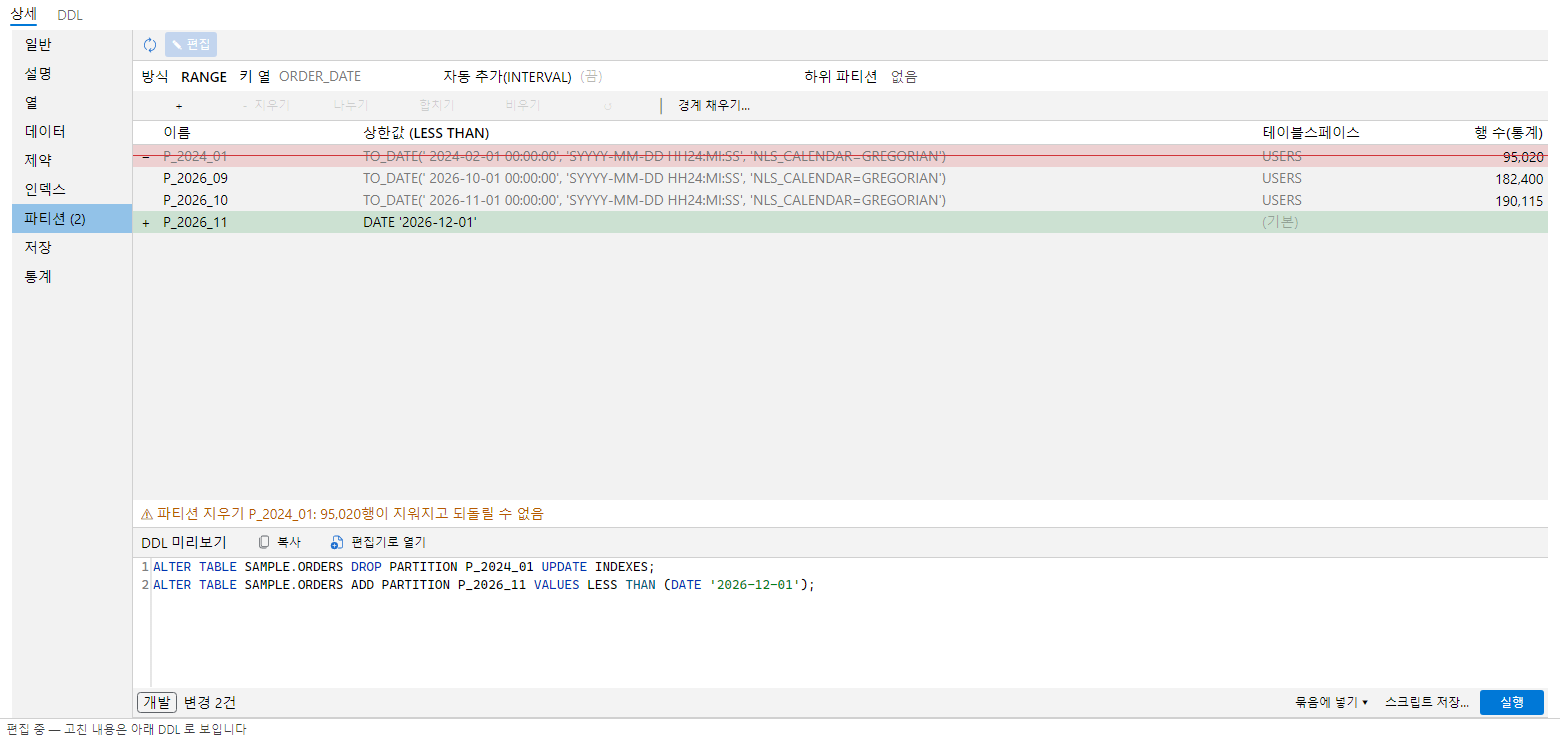
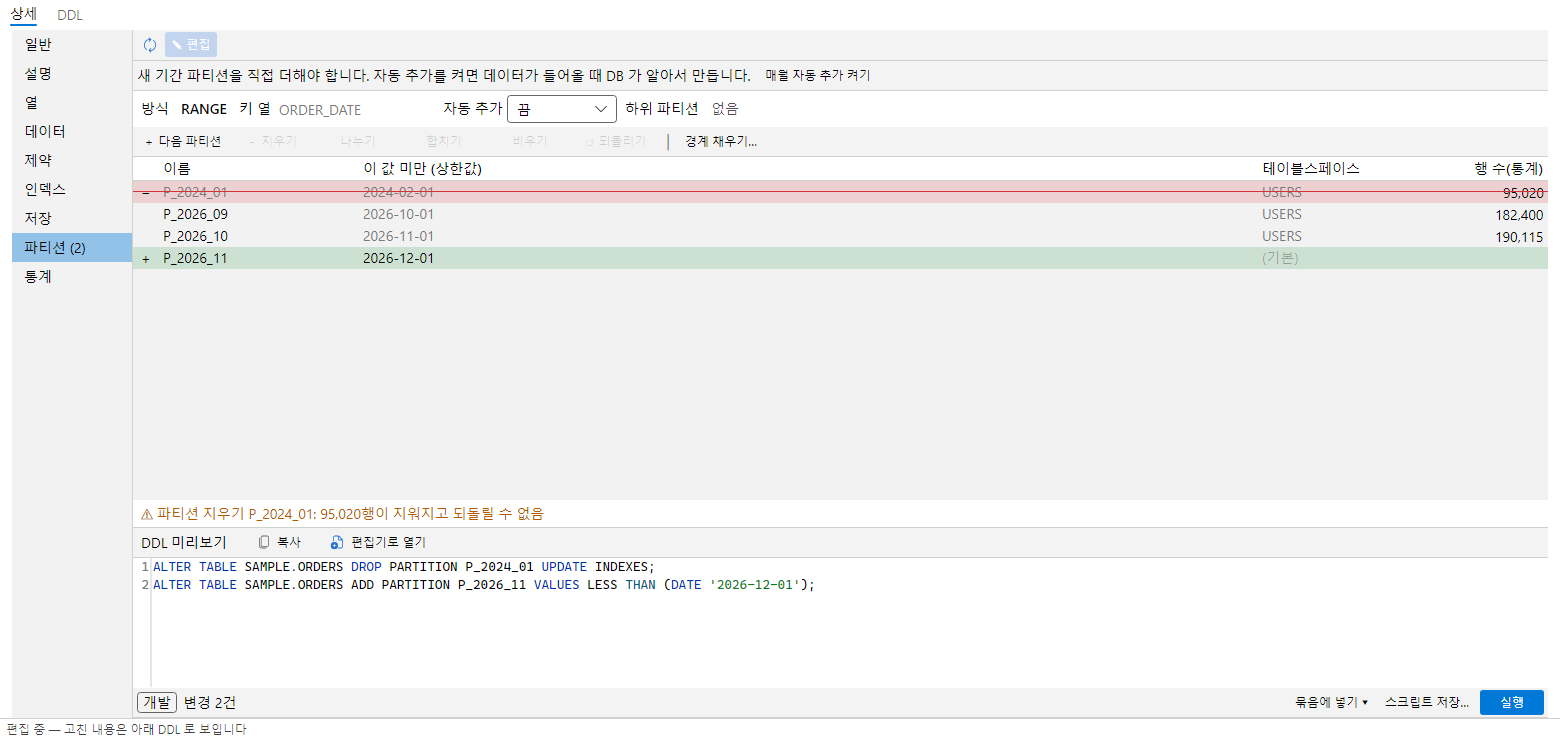
feat(table-edit): warn about Tibero dropped column data; manual and spec for easy partitions
- Check planner: on Tibero, when the table has a virtual column and the edit drops a column
  (or recreates a virtual column by DROP + ADD), warn that the dropped values can reappear
  in a column added later (server defect measured on win30; same name with another type
  breaks reads with corrupted DATE).
- Spec 12 records the Tibero findings; 18.4 records the easy partition editing.
- User manual: easy setup, automatic add choices, next partition, plain bounds, storage
  page in view mode; screenshots redrawn (partition, storage, new partition-easy).

Changed region(s): [[0.0, 0.0932, 1.0, 0.373]]

diff --git a/tests/Oranda.Core.Tests/Schema/TableEdit/TableEditCheckPlannerTests.cs b/tests/Oranda.Core.Tests/Schema/TableEdit/TableEditCheckPlannerTests.cs
@@ -243,6 +243,33 @@ public sealed class TableEditCheckPlannerTests
     }
 
     [Fact]
+    public void Tibero_warns_that_dropped_column_values_resurface_when_the_table_has_a_virtual_column()
+    {
+        var tibero = new FakeTableEditDialect { Dbms = Dbms.Tibero };
+        var (original, edited) = Start(dialect: tibero);
+        Assert.Contains(original.Columns, c => c.IsVirtual); // 예시 테이블에 가상 열 TOTAL
+        edited = edited.WithColumn("NOTE", c => c with { IsDropped = true });
+
+        var finding = Assert.Single(Plan(original, edited, tibero).Findings, f => f.Code == CheckCode.TiberoDroppedColumnData);
+        Assert.Equal((CheckSeverity.Warning, TableDraft.TableRowKey), (finding.Severity, finding.RowKey));
+
+        // Oracle 은 이 결함이 없다.
+        var (o2, e2) = Start();
+        Assert.DoesNotContain(Plan(o2, e2.WithColumn("NOTE", c => c with { IsDropped = true })).Findings, f => f.Code == CheckCode.TiberoDroppedColumnData);
+    }
+
+    [Fact]
+    public void Tibero_does_not_warn_without_a_virtual_column_or_without_a_drop()
+    {
+        var tibero = new FakeTableEditDialect { Dbms = Dbms.Tibero };
+        var (original, edited) = Start(dialect: tibero);
+        Assert.DoesNotContain(Plan(original, edited.WithColumn("NOTE", c => c with { Length = 500 }), tibero).Findings, f => f.Code == CheckCode.TiberoDroppedColumnData);
+
+        var plain = original with { Columns = [.. original.Columns.Where(c => !c.IsVirtual)] };
+        Assert.DoesNotContain(Plan(plain, plain.WithColumn("NOTE", c => c with { IsDropped = true }), tibero).Findings, f => f.Code == CheckCode.TiberoDroppedColumnData);
+    }
+
+    [Fact]
     public void Unsupported_features_are_blocked_with_the_reason_key()
     {
         var dialect = new FakeTableEditDialect();

diff --git a/src/Oranda.App/Features/TableEdit/CheckFindingText.cs b/src/Oranda.App/Features/TableEdit/CheckFindingText.cs
@@ -71,6 +71,9 @@ public static class CheckFindingText
                   + (detail is null || atLeast ? string.Empty : " — " + detail),
             CheckCode.ConversionNeedsQuiet => TableEditText.T($"{s}: 변환하는 동안 이 테이블에 쓰지 않게 하세요", $"{s}: keep writes off this table while converting")
                                               + (detail is null ? string.Empty : " (" + detail + ")"),
+            CheckCode.TiberoDroppedColumnData => TableEditText.T(
+                $"{s}: Tibero 는 가상 열이 있는 테이블에서 지운 열의 값을 지우지 않아, 나중에 더하는 열에 그 값이 보일 수 있습니다(같은 이름을 다른 형식으로 다시 더하면 읽기가 깨짐). 열을 다시 더할 일이 있으면 테이블을 새로 만드세요",
+                $"{s}: on Tibero, with a virtual column in the table, a dropped column's values stay and can show up in a column added later (re-adding the same name with another type breaks reads). Rebuild the table if you will add columns again"),
             CheckCode.Unsupported => TableEditText.T($"{s}: 이 서버에서는 할 수 없습니다", $"{s}: not supported on this server") + (detail is null ? string.Empty : " (" + detail + ")"),
             _ => s,
         };

diff --git a/src/Oranda.Core/Schema/TableEdit/TableEditCheckPlanner.cs b/src/Oranda.Core/Schema/TableEdit/TableEditCheckPlanner.cs
@@ -549,6 +549,14 @@ public static partial class TableEditCheckPlanner
                 }
             }
 
+            // Tibero 서버 결함: 가상 열이 있는 테이블에서 열을 지우면(가상 식 바꾸기의 DROP + ADD 포함) 지운 값이 나중에 더한 열에 보인다.
+            if (dialect.Dbms == Dbms.Tibero
+                && (original.Columns.Any(c => c.IsVirtual) || liveColumns.Any(c => c.IsVirtual))
+                && (changes.Columns.Any(d => d.State == DraftRowState.Dropped) || Findings.Any(f => f.Code == CheckCode.VirtualRecreated)))
+            {
+                Findings.Add(new CheckFinding(CheckSeverity.Warning, CheckCode.TiberoDroppedColumnData, TableDraft.TableRowKey) { Subject = original.Name });
+            }
+
             // 제약
             var liveConstraints = edited.Constraints.Where(c => !c.IsDropped && changes.StateOf(c.RowKey) != DraftRowState.Dropped).ToList();
             var freedConstraints = changes.Constraints.Where(d => d.State == DraftRowState.Dropped || d.Changes.HasFlag(ConstraintChange.Name))

diff --git a/src/Oranda.Core/Schema/TableEdit/CheckFinding.cs b/src/Oranda.Core/Schema/TableEdit/CheckFinding.cs
@@ -84,6 +84,12 @@ public enum CheckCode
     /// (<see cref="CheckFinding.Dependents"/> = 트리거).
     /// </summary>
     ConversionNeedsQuiet,
+
+    /// <summary>
+    /// ⚠ Tibero 서버 결함(2026-11-18 실측, win30): 가상 열이 있는 테이블에서 지운 열의 값이 저장소에 남아, 나중에 더한 열(이름·형식이 달라도)에 보인다.
+    /// 같은 이름을 다른 형식으로 다시 더하면 읽기가 깨진다(ODP-590750 corrupted DATE). 가상 열이 없으면 생기지 않는다.
+    /// </summary>
+    TiberoDroppedColumnData,
 }
 
 /// <summary>

diff --git a/site/src/content/docs/schema/table-editor.md b/site/src/content/docs/schema/table-editor.md
@@ -12,7 +12,7 @@ description: 객체 상세에서 열, 제약, 인덱스, 파티션을 표에서 
 ## 편집 켜기와 끄기
 
 1. 스키마 브라우저에서 테이블을 열어 객체 상세 창을 엽니다.
-2. 「열」, 「제약」, 「인덱스」, 「설명」 구역(파티션 테이블이면 「파티션」도) 중 하나를 고릅니다. 이 구역에서만 **✎ 편집** 단추가 보입니다.
+2. 「열」, 「제약」, 「인덱스」, 「설명」, 「저장」 구역(파티션 테이블이면 「파티션」도) 중 하나를 고릅니다. 이 구역에서만 **✎ 편집** 단추가 보입니다.
 3. **✎ 편집**을 켭니다. 또는 명령 팔레트의 「테이블 편집 켜기·끄기」를 씁니다. 읽기 전용 접속에서는 이 명령이 꺼져 있습니다.
 
 대상은 테이블(TABLE)뿐입니다. 뷰, 시퀀스, 인덱스 같은 객체에는 단추가 없습니다.
@@ -166,7 +166,23 @@ description: 객체 상세에서 열, 제약, 인덱스, 파티션을 표에서 
 
 ## 파티션
 
-파티션 테이블은 「파티션」 구역에서도 **✎ 편집**을 켜고 파티션을 고칩니다. 파티션이 없는 일반 테이블에는 이 구역이 처음에는 없습니다. 다른 구역에서 **✎ 편집**을 켜면 「인덱스」 뒤에 빈 「파티션」 구역이 생기고, 편집을 끄면 다시 없어집니다.
+파티션 테이블은 「파티션」 구역에서도 **✎ 편집**을 켜고 파티션을 고칩니다. 일반 테이블에는 이 구역이 없습니다. 편집 중에 「저장」 구역 위의 「파티션 테이블로 바꾸기…」를 누르면 「저장」 바로 뒤에 「파티션」 구역이 열리고, 편집을 끄면 다시 없어집니다.
+
+### 쉬운 설정
+
+일반 테이블의 「파티션」 구역 맨 위에는 「쉬운 설정」이 있습니다. 날짜 열과 단위(일, 월, 년)를 고르고 「파티션 테이블로 만들기」를 누르면 됩니다.
+
+- 지금 기간 전의 데이터는 첫 파티션 하나(예: `P_BEFORE_2026_11`)에 들어갑니다.
+- 그 뒤 기간의 파티션은 데이터가 들어올 때 DB가 알아서 만듭니다(자동 추가, `INTERVAL`). 파티션을 따로 더할 일이 없습니다.
+- 무엇이 어디로 가는지는 단추 아래에 한 줄로 나옵니다.
+- 자동 추가를 못 쓰는 DB에서는 앞으로 12개 기간의 파티션을 미리 만듭니다.
+- 날짜 열이 없는 테이블에서는 아래 「방식」 칸에서 직접 고릅니다.
+
+![파티션 쉬운 설정](../../../assets/screens/table-edit-partition-easy.png)
+
+### 파티션 정보와 줄 고치기
+
+이미 파티션 테이블인데 자동 추가가 꺼져 있으면 위에 「매월 자동 추가 켜기」 단추가 나옵니다. 단위는 지금 경계 간격으로 짐작합니다(매일, 매월, 매년). 한 번 누르면 켜집니다.
 
 위쪽에는 파티션 정보 칸이 있습니다.
 
@@ -174,22 +190,25 @@ description: 객체 상세에서 열, 제약, 인덱스, 파티션을 표에서 
 |---|---|
 | 방식 | 「없음」, 「RANGE」, 「LIST」, 「HASH」. 일반 테이블에서 고르면 파티션 테이블로 바꿉니다. 바꾸기를 못 하는 서버에서는 이 칸이 흐려지고 이유가 나옵니다. |
 | 키 열 | 파티션 키 열을 쉼표로 씁니다. 이미 파티션 테이블이면 바꿀 수 없습니다. |
-| 자동 추가(INTERVAL) | 범위 파티션의 자동 추가 간격입니다. 예는 `NUMTOYMINTERVAL(1, 'MONTH')`입니다. 비우면 끕니다. |
+| 자동 추가 | 「끔」, 「매일」, 「매월」, 「매년」, 「직접 입력…」. 켜 두면 새 기간의 데이터가 들어올 때 DB가 파티션을 만듭니다(`INTERVAL`). 「직접 입력…」을 고르면 식 칸이 나옵니다(예: `NUMTOYMINTERVAL(3, 'MONTH')`, 수 키는 `1000`). 날짜 키가 아니면 「끔」과 「직접 입력…」만 있습니다. |
 | 하위 파티션 | 보기만 합니다. 하위 파티션 편집은 지원하지 않습니다. |
 
 도구줄과 표는 다음과 같습니다.
 
 | 단추 | 하는 일 |
 |---|---|
-| 「＋」 | 새 파티션을 끝에 더합니다. 범위는 마지막 경계 뒤에만 더합니다. |
+| 「＋ 다음 파티션」(범위)·「＋ 더하기」 | 새 파티션을 끝에 더합니다. 범위는 앞 파티션의 간격(한 달, 하루, 수의 차)을 이어 이름과 경계를 채워 넣습니다. 자동 추가가 켜진 범위 테이블에서는 흐립니다. DB가 알아서 만들기 때문입니다. |
 | 「－ 지우기」 | 고른 파티션을 지웁니다. 다시 누르면 되살립니다. |
 | 「나누기」 | 고른 파티션을 나눕니다. 바로 위에 새 줄이 생기니 나눌 경계를 쓰세요. |
 | 「합치기」 | 고른 파티션을 바로 다음 파티션과 합칩니다. 해시는 안 됩니다. |
 | 「비우기」 | 고른 파티션의 행을 모두 지웁니다. |
-| 「↺」 | 고른 줄을 원래대로 되돌립니다. |
+| 「↺ 되돌리기」 | 고른 줄을 원래대로 되돌립니다. |
 | 「경계 채우기…」 | 「시작」, 「단위」, 「개수」, 「간격」을 쓰고 「채우기」를 누르면 범위 파티션 줄을 한꺼번에 만듭니다. 예는 2026-01부터 매월 12개입니다. 이미 있는 이름의 줄은 건너뜁니다. |
 
-표의 칸은 이름, 상한값(LESS THAN) 또는 값 목록, 테이블스페이스, 행 수(통계)입니다.
+표의 칸은 이름, 「이 값 미만 (상한값)」 또는 값 목록, 테이블스페이스, 행 수(통계)입니다.
+
+- 경계는 보통 값으로 보이고 그대로 씁니다. 날짜는 `2026-12-01`, 수는 `1000`, 목록은 `서울, 부산`입니다. SQL(`DATE '2026-12-01'`, 따옴표)은 앱이 만듭니다. `DATE '…'`처럼 SQL로 써도 됩니다.
+- 새 줄의 이름은 경계로 짓습니다(구간 시작으로 `P_2026_11` 등). 경계를 바꾸면 이름도 따라 바뀝니다. 직접 지은 이름은 그대로 둡니다.
 
 ![파티션 구역 편집](../../../assets/screens/table-edit-partition.png)
 
@@ -202,7 +221,7 @@ description: 객체 상세에서 열, 제약, 인덱스, 파티션을 표에서 
 
 ## 저장 속성과 LOB
 
-「저장」 구역에서 테이블의 저장 속성과 LOB 열의 저장 방식을 고칩니다. 표에는 「지금 값」과 「바꿀 값」이 있고, 「바꿀 값」을 비우면 그 속성은 그대로 둡니다.
+「저장」 구역은 보기 모드에서도 지금 저장 속성(테이블스페이스, PCTFREE, INITRANS, 압축, LOGGING, 병렬)과 LOB 열마다 저장 방식을 보여 줍니다. **✎ 편집**을 켜면 같은 구역에서 저장 속성과 LOB 열의 저장 방식을 고칩니다. 표에는 「지금 값」과 「바꿀 값」이 있고, 「바꿀 값」을 비우면 그 속성은 그대로 둡니다.
 
 ![저장 구역 편집](../../../assets/screens/table-edit-storage.png)
 

diff --git a/docs/superpowers/specs/2026-11-17-table-editor-design.md b/docs/superpowers/specs/2026-11-17-table-editor-design.md
@@ -315,6 +315,8 @@ Oracle 실측에서 더한 규칙: 기준(BYTE/CHAR)을 쓰지 않은 MODIFY 는
 
 알려진 차이: 숨김 열 없음(`TiberoColumnReorderScripts.cs:31` `InvisibleNotSupported`), 휴지통 꺼짐이 기본이라 DROP 이 영구(`TiberoColumnReorderScripts.cs:87-88`) — DROP 계열 ⚠ 문구에 반영한다. 클러스터 테이블 판정 없음.
 
+**Tibero 서버 결함 (2026-11-18 실측, win30 `TiberoTableEditFollowupIt`)**: 가상 열이 있는 테이블에서 `DROP COLUMN` 한 열의 값이 저장소에 남아, 나중에 `ADD` 한 열(이름·형식이 달라도)에 보인다. 같은 이름을 DATE 로 다시 더하면 읽기가 `ODP-590750 corrupted DATE` 로 깨진다. 새 세션에서도 같고, 가상 열이 없으면 생기지 않는다. → 검사 ⚠ `TiberoDroppedColumnData`(Tibero · 가상 열 있음 · 열 지우기 또는 가상 식 DROP+ADD). 그 밖: Tibero 드라이버에는 ODP.NET 의 `GetSchemaTable` 메타데이터 캐시 문제가 없다(열을 바꾼 뒤 같은 세션 다시 읽기 성공). INTERVAL 없는 범위 밖 INSERT = TBR-10018. 서버가 만든 파티션 이름 = `<계정>_P<n>`.
+
 ## 13. 기존 기능과의 관계
 
 - **열 순서 바꾸기**: 기존 열 순서는 그대로 그 창이 맡는다. 편집 모드 열 페이지 도구줄에 「열 순서 바꾸기…」를 그대로 둔다. 편집 중 고친 내용이 있으면 그 창을 열기 전에 실행하거나 버리라고 묻는다.
@@ -489,6 +491,13 @@ Oracle 실측에서 더한 규칙: 기준(BYTE/CHAR)을 쓰지 않은 MODIFY 는
 - 하위(복합) 파티션은 보여 주기만 하고 편집은 미룬다 **[사용자, TE-42]**.
 - 검사: 새 RANGE 경계가 기존 행을 가르면 ⚠, DROP/TRUNCATE 행 수, 파티션 키 열 지우기·형식 바꾸기 ✖.
 - Tibero(실측 11): RANGE/LIST/HASH/INTERVAL CREATE·ADD/SPLIT/MERGE/RENAME/TRUNCATE/DROP 됨. 해시 ADD PARTITION·COALESCE·LIST ADD VALUES·EXCHANGE·`SUBPARTITIONS n` 줄임꼴은 안 됨 → 흐리게 + 이유. 카탈로그 HIGH_VALUE → BOUND, PARTITION_POSITION → PARTITION_NO. 서버 이름 파티션 `<계정>_P<n>`. ONLINE·`UPDATE INDEXES` 수용 여부는 T14 에서 실측.
+
+- **쉬운 편집 [사용자, 2026-11-18 「쉽게 바꾸고 추가는 자동으로」]**:
+  - 일반 테이블: 「저장」 페이지의 「파티션 테이블로 바꾸기…」 → 「쉬운 설정」(날짜 열 · 일/월/년) 한 번으로 RANGE + INTERVAL + 첫 파티션 `P_BEFORE_<기간>`(지금 기간 전 전부). INTERVAL 을 못 쓰는 DB 는 앞으로 12개를 미리 만든다. 방식·키 열 직접 고르기는 그 아래 그대로.
+  - 자동 추가 칸 = 끔·매일·매월·매년·직접 입력(날짜 키), 그 밖 키 = 끔·직접 입력. 자동 추가가 꺼진 날짜 범위 테이블에는 「매월 자동 추가 켜기」(단위는 경계 간격으로 짐작).
+  - 경계 칸은 보통 값(`2026-12-01`·`1000`·`A, B`)으로 보이고 받는다. SQL 은 `PartitionBounds` 가 만든다(날짜 = `DATE '…'`, 시각 있음 = `TO_DATE`). 사전의 `TO_DATE(' 2026-10-01 00:00:00', 'SYYYY-…')`·Tibero 서버가 만든 파티션의 `TO_DATE('01-02-2027 00:00:00', 'DD-MM-YYYY …')` 도 날짜로 읽는다.
+  - 「＋ 다음 파티션」 = 앞 간격(달·날·수 차)을 이어 이름·경계를 채운다. 새 줄 이름은 경계로 짓고(구간 시작 `P_YYYY_MM` 등), 사람이 지은 이름·나누기 줄 이름은 그대로 둔다. 자동 추가가 켜진 범위 테이블에서는 흐림(ADD = ORA-14760, DB 가 만든다).
+  - 「파티션」 페이지는 파티션 테이블에만 늘 있고, 「저장」 페이지는 보기 모드에도 늘 있다(편집을 켜도 왼쪽 목록이 바뀌지 않는다).
 
 ### 18.5 신원·숨김·도메인 열 (TE-7 뒤집음)
 - 신원: 열 페이지 「신원」 칸(없음·ALWAYS·BY DEFAULT·BY DEFAULT ON NULL) + 시작 값·증가. 새 열/새 테이블 = `GENERATED … AS IDENTITY (START WITH n INCREMENT BY m)`, 기존 열 = `MODIFY (c GENERATED … AS IDENTITY (…))` 또는 `MODIFY (c DROP IDENTITY)`. 데이터 있는 일반 열을 신원으로 바꾸기는 Oracle 이 막으므로 ✖. 12c 미만·Tibero(실측) 는 18.8.
